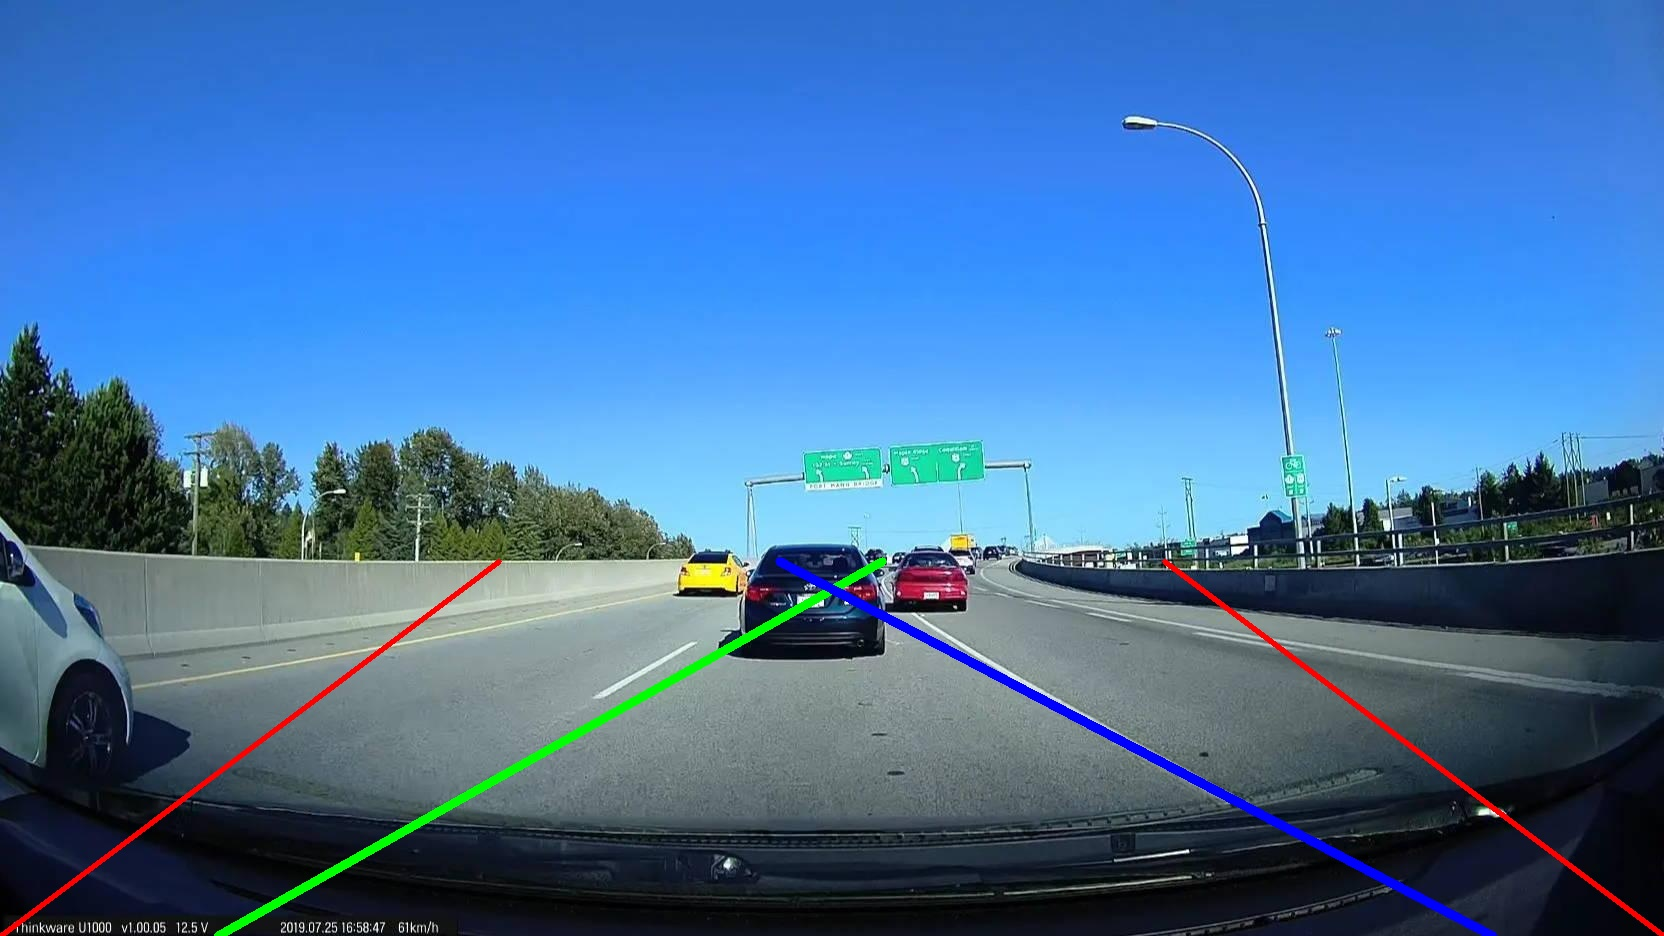
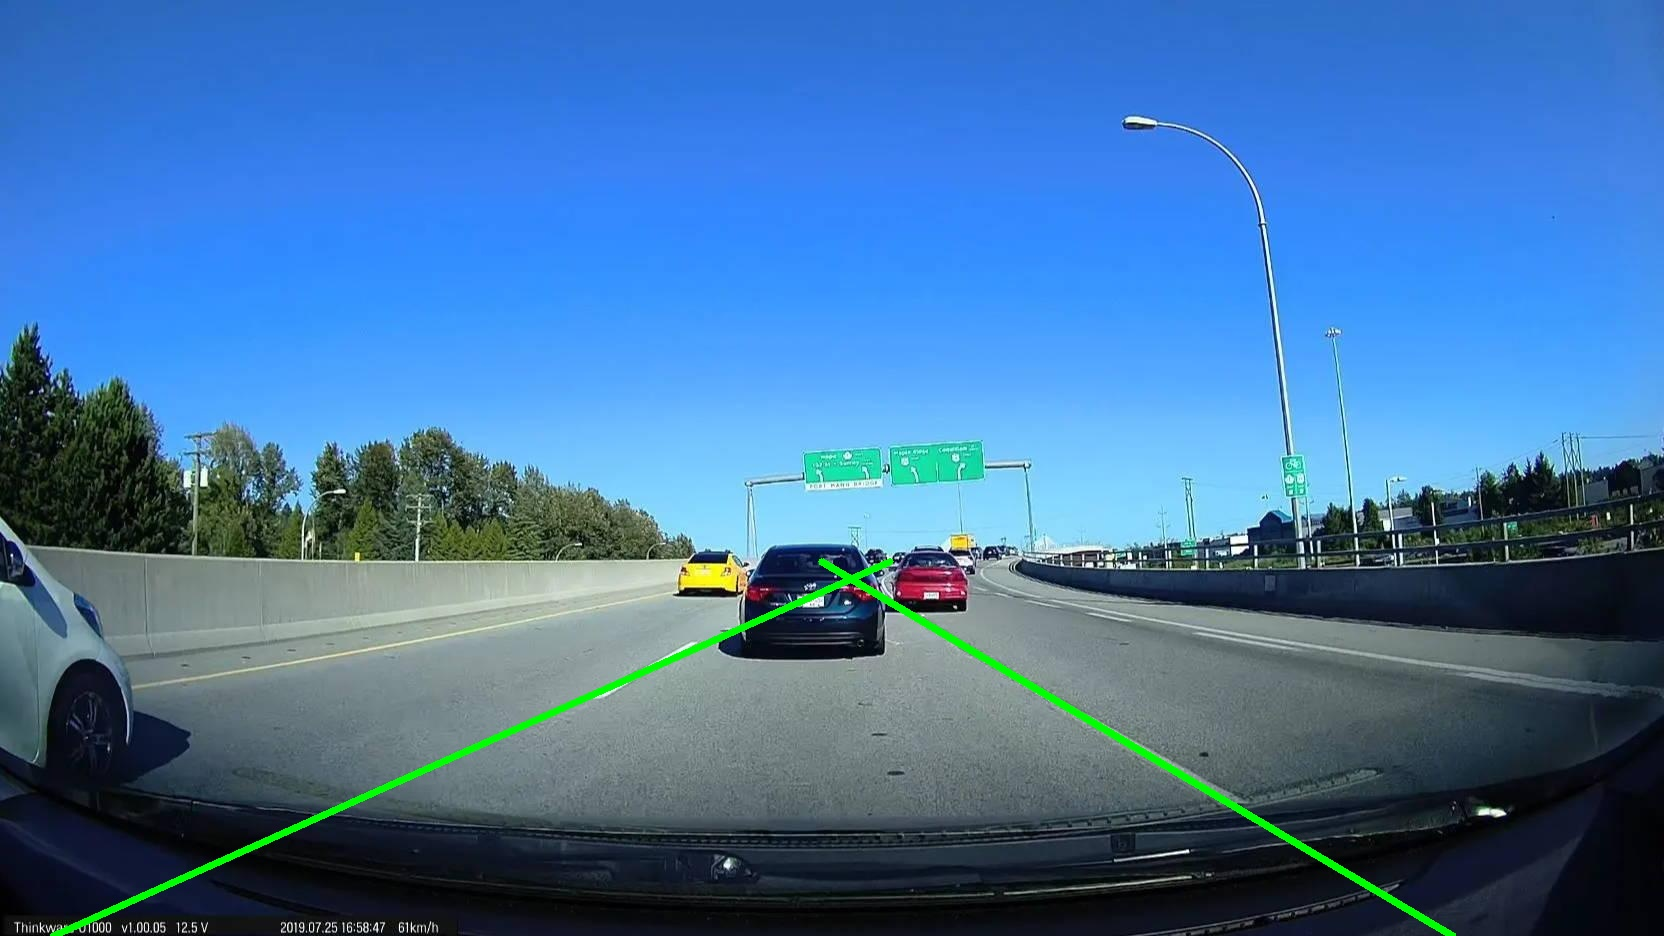
Improve lane detection with ROI, edge detection, and averaged lane lines

diff --git a/lane_detection/lane_detector.py b/lane_detection/lane_detector.py
@@ -1,46 +1,81 @@
-import numpy as np
 import cv2
+import numpy as np
+
+
+def region_of_interest(image):
+    """
+    Masks the image to keep only the road region.
+    """
+    height, width = image.shape
+
+    mask = np.zeros_like(image)
+
+    polygon = np.array([[
+        (0, height),
+        (width, height),
+        (int(width * 0.6), int(height * 0.6)),
+        (int(width * 0.4), int(height * 0.6))
+    ]], np.int32)
+
+    cv2.fillPoly(mask, polygon, 255)
+
+    return cv2.bitwise_and(image, mask)
 
 
 def average_lines(image, lines):
-    left_lines = []
-    right_lines = []
+    """
+    Average all detected lane lines into one left and one right lane.
+    """
 
-    for line in lines:
-        x1, y1, x2, y2 = line[0]
+    left_fit = []
+    right_fit = []
 
-        if x2 == x1:
-            continue  # Skip vertical lines
+    if lines is None:
+        return []
+
+    # Convert to (N,4)
+    lines = np.array(lines).reshape(-1, 4)
+
+    for x1, y1, x2, y2 in lines:
+
+        if x1 == x2:
+            continue
 
         slope = (y2 - y1) / (x2 - x1)
         intercept = y1 - slope * x1
 
         if slope < -0.3:
-            left_lines.append((slope, intercept))
+            left_fit.append((slope, intercept))
         elif slope > 0.3:
-            right_lines.append((slope, intercept))
+            right_fit.append((slope, intercept))
 
-    def make_line(image, params):
-        slope, intercept = np.mean(params, axis=0)
+    lane_lines = []
 
-        h = image.shape[0]
-        y1 = h
-        y2 = int(h * 0.6)
+    if left_fit:
+        lane_lines.append(make_line(image, np.mean(left_fit, axis=0)))
 
-        x1 = int((y1 - intercept) / slope)
-        x2 = int((y2 - intercept) / slope)
+    if right_fit:
+        lane_lines.append(make_line(image, np.mean(right_fit, axis=0)))
 
-        return [(x1, y1, x2, y2)]
+    return lane_lines
 
-    averaged = []
 
-    if left_lines:
-        averaged.append(make_line(image, left_lines))
+def make_line(image, line):
+    """
+    Converts slope and intercept into line coordinates.
+    """
 
-    if right_lines:
-        averaged.append(make_line(image, right_lines))
+    slope, intercept = line
 
-    return averaged
+    height = image.shape[0]
+
+    y1 = height
+    y2 = int(height * 0.6)
+
+    x1 = int((y1 - intercept) / slope)
+    x2 = int((y2 - intercept) / slope)
+
+    return (x1, y1, x2, y2)
 
 
 def detect_lanes(image_path):
@@ -55,59 +90,71 @@ def detect_lanes(image_path):
 
     output = image.copy()
 
-    # Convert to grayscale
+    # -------------------------
+    # Step 1: Grayscale
+    # -------------------------
     gray = cv2.cvtColor(image, cv2.COLOR_BGR2GRAY)
 
-    # Blur image
+    # -------------------------
+    # Step 2: Gaussian Blur
+    # -------------------------
     blur = cv2.GaussianBlur(gray, (5, 5), 0)
 
-    # Detect edges
+    # -------------------------
+    # Step 3: Edge Detection
+    # -------------------------
     edges = cv2.Canny(blur, 50, 150)
 
-    # Region of Interest
-    height, width = edges.shape
+    # -------------------------
+    # Step 4: ROI
+    # -------------------------
+    cropped = region_of_interest(edges)
 
-    mask = np.zeros_like(edges)
-
-    polygon = np.array([[
-        (0, height),
-        (width, height),
-        (int(width * 0.60), int(height * 0.60)),
-        (int(width * 0.40), int(height * 0.60))
-    ]], np.int32)
-
-    cv2.fillPoly(mask, polygon, 255)
-
-    cropped = cv2.bitwise_and(edges, mask)
-
-    # Hough Line Transform
+    # -------------------------
+    # Step 5: Hough Transform
+    # -------------------------
     lines = cv2.HoughLinesP(
         cropped,
         rho=2,
         theta=np.pi / 180,
-        threshold=100,
+        threshold=50,
         minLineLength=40,
-        maxLineGap=5
+        maxLineGap=100
     )
 
-    if lines is None:
-        print("No lane lines detected.")
-        return output
-
+    # -------------------------
+    # Step 6: Average lanes
+    # -------------------------
     averaged_lines = average_lines(image, lines)
 
-    for line in averaged_lines:
-        x1, y1, x2, y2 = line[0]
-        cv2.line(output, (x1, y1), (x2, y2), (0, 255, 0), 5)
+    # -------------------------
+    # Step 7: Draw lanes
+    # -------------------------
+    for x1, y1, x2, y2 in averaged_lines:
+        cv2.line(
+            output,
+            (x1, y1),
+            (x2, y2),
+            (0, 255, 0),
+            5
+        )
 
     return output
 
 
 if __name__ == "__main__":
+
+    print("Lane Detection Started...")
+
     result = detect_lanes("sample_road.jpg")
 
-    cv2.imshow("Lane Detection", result)
     cv2.imwrite("lane_output.jpg", result)
+
+    print("Lane Detection Completed.")
+    print("Output saved as lane_output.jpg")
+
+    cv2.imshow("Original Image", cv2.imread("sample_road.jpg"))
+    cv2.imshow("Detected Lanes", result)
 
     cv2.waitKey(0)
     cv2.destroyAllWindows()